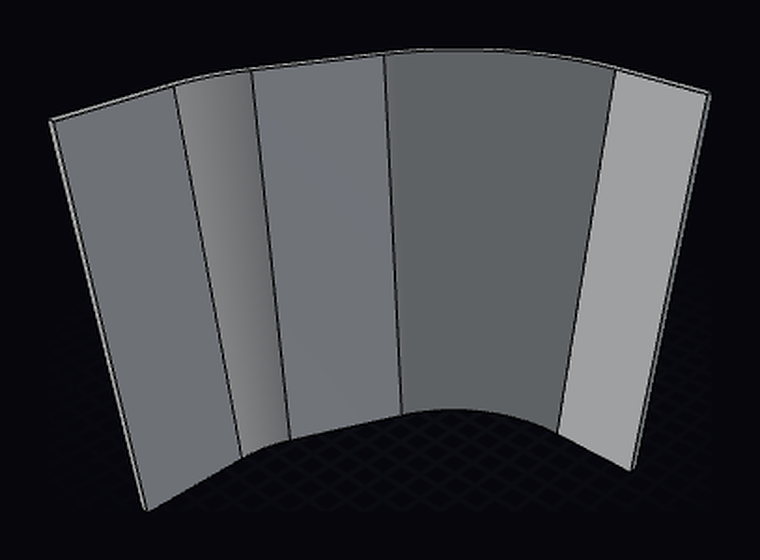
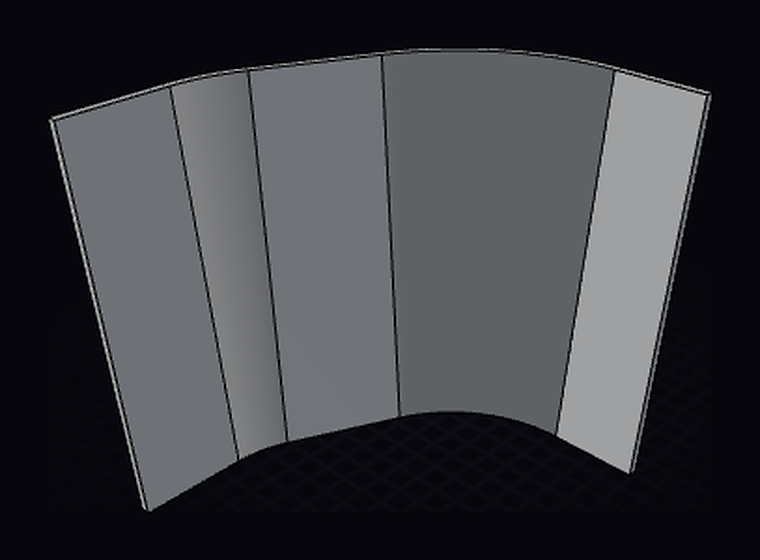
End panel is same as side panels

diff --git a/src/cart.ts b/src/cart.ts
@@ -26,17 +26,14 @@ export const cart = {
   /** Across the cart, centre to centre between cutouts on opposite long sides. */
   cutoutSpanAcross: 655,
 
-  /**
-   * Clear gap between the two handle-end cutouts. Derived from Gorilla's product
-   * photos, not measured on the cart: centres 326.8 apart (see the README).
-   */
-  handleEndGap: 275.5,
+  /** Clear gap between the two handle-end cutouts. Measured: the same as along the sides. */
+  handleEndGap: 279.4,
 } as const;
 
 /** Centre to centre between neighbouring cutouts along a side: 330.7. */
 export const cutoutPitch = cart.cutoutGap + cart.cutoutLength;
 
-/** Centre to centre between the two handle-end cutouts: 326.8. */
+/** Centre to centre between the two handle-end cutouts: 330.7. */
 export const handleEndPitch = cart.handleEndGap + cart.cutoutLength;
 
 /**
@@ -45,7 +42,7 @@ export const handleEndPitch = cart.handleEndGap + cart.cutoutLength;
  */
 export const corner = {
   /** Across the cart: long-side cutout centre to handle-end cutout centre. */
-  across: cart.cutoutSpanAcross / 2 - handleEndPitch / 2, // 164.1
+  across: cart.cutoutSpanAcross / 2 - handleEndPitch / 2, // 162.15
 
   /**
    * Along the cart: handle-end cutout centre to long-side cutout centre.

diff --git a/src/side-panel.brep.ts b/src/side-panel.brep.ts
@@ -2,9 +2,8 @@
  * Side panel.
  *
  * A flat plate that slides down into the grooves of two neighbouring side
- * extension posts on the same long side of the cart, filling the wall between
- * them. Four are needed: two on each long side. The handle end, whose cutouts
- * sit closer together, takes ./end-panel.brep.ts instead.
+ * extension posts on the same side of the cart, filling the wall between them.
+ * Five are needed: two on each long side and one across the handle end.
  *
  * Modelled flat, as printed: X along the panel's length (post to post), Y up
  * its height once fitted, Z through its thickness. Centred on the origin in X/Y,

diff --git a/src/corner-panel.ts b/src/corner-panel.ts
@@ -83,7 +83,7 @@ const toGrooveFloor = plug.y / 2 - post.grooveDepth; // 17.5
  * fit tolerance, as the side panel does at each end.
  */
 const endA = corner.along - toGrooveFloor - cart.fitTolerance / 2; // 118.85
-const endB = corner.across - toGrooveFloor - cart.fitTolerance / 2; // 146.45
+const endB = corner.across - toGrooveFloor - cart.fitTolerance / 2; // 144.5
 
 const dot = (a: Vec, b: Vec) => a[0] * b[0] + a[1] * b[1];
 const unit = (a: Vec): Vec => {

diff --git a/README.md b/README.md
@@ -19,7 +19,7 @@ Measured facts about the cutouts in the top rim of the cart body. All accessorie
 | Total cutouts | 8 |
 | Gap between adjacent cutouts along a side | 11 in (279.4 mm) edge to edge, so 330.7 mm centre to centre |
 | Width across the cart (short side) | 655 mm, centre to centre between cutouts on opposite long sides |
-| Gap between the handle-end cutouts | 275.5 mm edge to edge, 326.8 mm centre to centre (from photos) |
+| Gap between the handle-end cutouts | 11 in (279.4 mm) edge to edge, the same as along the sides |
 | Handle-end cutouts along the cart | 136.5 mm from the nearest long-side cutouts, centre to centre (from photos) |
 | Rim corners at the handle end | A round, a flat about 64.5° from the long side, and a second round (from photos) |
 
@@ -43,8 +43,10 @@ Method: in each photo, I picked out the centres of all the cutout openings, then
 
 | Result | Image 12 | Infographic | ANZ photo | Model |
 | --- | --- | --- | --- | --- |
-| Handle-end cutouts across, from the centreline | ±163.4 / 163.5 mm | ±163.3 mm | ±163.1 / 163.8 mm | ±163.4 mm |
+| Handle-end cutouts across, from the centreline | ±163.4 / 163.5 mm | ±163.3 mm | ±163.1 / 163.8 mm | ±165.35 mm (measured) |
 | Handle-end cutouts along, toward the handle | 135.7 mm | 135.3 mm | 137.5 mm | 136.5 mm |
+
+Measured on the cart, the handle-end gap is the same 11 in as the sides, which puts those cutouts at ±165.35 mm. The photos placed them about 2 mm closer to the centreline, so expect the photo-derived distance along the cart to carry a similar error.
 
 In Image 12, the tub's outline against the white background measures 672 mm across, constant along the whole length. It runs 979 mm from the far end to the outer edge of the handle-end rim. The [GCG-7 listing](https://gorillamade.com/product/gcg-7/) gives the bed as 39.5 × 27 in (1003 × 686 mm):
 
@@ -125,7 +127,7 @@ Eight identical posts, one per cutout, that raise the bucket walls to carry more
 
 Fit each post with its lean pointing out of the cart. All posts on a side lean the same way, so the panel between two of them lies flat in a plane leaning 6° out.
 
-Two side panels fill each long side, an end panel fills the handle end, and a corner panel closes each handle-end corner. The end away from the handle stays open.
+Two side panels fill each long side, one fills the handle end, and a corner panel closes each handle-end corner. The end away from the handle stays open.
 
 The insert takes no height off for fit tolerance, unlike the machete sleeve.
 
@@ -135,7 +137,7 @@ Verified against the OCCT kernel: valid single solid, manifold, 30 faces, boundi
 
 ![The side panel: a flat rectangular plate](media/side-panel.png)
 
-Flat plates that slide down into the grooves of two neighbouring posts on the same long side. You need four: two on each long side. Source: [src/side-panel.brep.ts](src/side-panel.brep.ts).
+Flat plates that slide down into the grooves of two neighbouring posts on the same side. You need five: two on each long side and one across the handle end. Source: [src/side-panel.brep.ts](src/side-panel.brep.ts).
 
 | | |
 |---|---|
@@ -148,21 +150,6 @@ Print flat. At 295.4 mm long the panel needs a print bed at least 296 mm in one 
 
 Verified: valid solid, 295.4 × 150 × 3.7, volume 163947 mm³.
 
-### End panel
-
-![The end panel: a flat rectangular plate](media/end-panel.png)
-
-The side panel cut to fit between the two handle-end posts. Their cutouts sit about 4 mm closer together than those along the sides, so a side panel won't fit there. You need one. Source: [src/end-panel.brep.ts](src/end-panel.brep.ts).
-
-| | |
-|---|---|
-| Size | 291.5 (length) × 150 (height) × 3.7 (thickness) mm |
-| Length | 291.8 mm groove floor to groove floor (326.8 pitch − 2 × 17.5), less 0.3 mm |
-
-The handle-end spacing comes from photos. If the true gap turns out to be the same 11 in as the sides, this panel still holds, with about 6 mm of each end in its groove.
-
-Verified: valid solid, 291.5 × 150 × 3.7, volume 161782.5 mm³.
-
 ### Corner panels
 
 ![The left corner panel: an L-shaped panel whose legs meet through a round, a flat and a second round](media/corner-panel-left.png)
@@ -172,13 +159,13 @@ Closes each handle-end corner, from the long-side post nearest the handle to the
 | | |
 |---|---|
 | Long-side leg | 118.85 mm from the corner to its end (136.5 − 17.5 − 0.15) |
-| Handle-end leg | 146.45 mm from the corner to its end (164.1 − 17.5 − 0.15) |
+| Handle-end leg | 144.5 mm from the corner to its end (162.15 − 17.5 − 0.15) |
 | Flat | Meets the long-side line 43 mm from the corner and the handle-end line 90 mm from it, about 64.5° to the long side |
 | Rounds | 63 mm radius into the long side and 51 mm into the handle end, on the centreline at the bottom; each grows by 15.7 mm at the top |
 | Lean | Legs and flat all lean 6° outward, so the rounds are slices of cones |
 | Section | 3.7 mm thick, 150 mm up the slope |
 | Ends | Square to their legs and the same length top to bottom; 0.15 mm clear of each groove floor |
-| Overall | 136.4 × 164.0 × 149.2 mm, printed standing on its bottom edge |
+| Overall | 136.4 × 162.0 × 149.2 mm, printed standing on its bottom edge |
 
 The corner's path is the inside edge of the rim moved 17 mm outward, onto the line through the cutouts. So the panel's bottom edge sits on the rim all the way round the corner.
 
@@ -186,7 +173,7 @@ The corner panel prints as modelled, standing up. The 6° lean is the only overh
 
 The legs lean in different directions, so the panel can't slide straight down into posts that are already fitted: at 6° the ends would have to travel 15.7 mm sideways, almost twice the 8 mm groove depth. Instead, fit it into the two posts' grooves first, then lower the posts and the panel into the cutouts together.
 
-Verified: each part is a valid single solid, manifold, 14 faces, bounding box 136.4 × 164.0 × 149.2. Measured volume 130654.19 mm³ matches the analytic figure.
+Verified: each part is a valid single solid, manifold, 14 faces, bounding box 136.4 × 162.0 × 149.2. Measured volume 129571.94 mm³ matches the analytic figure.
 
 ### Capacity
 
